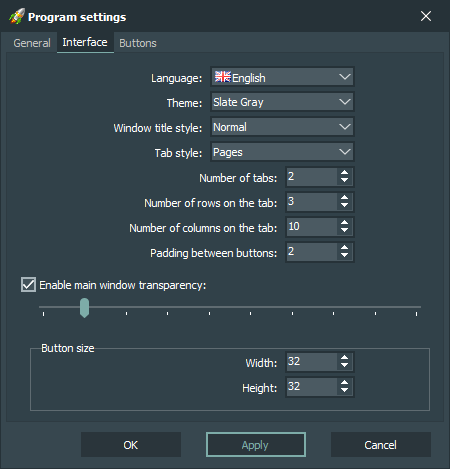
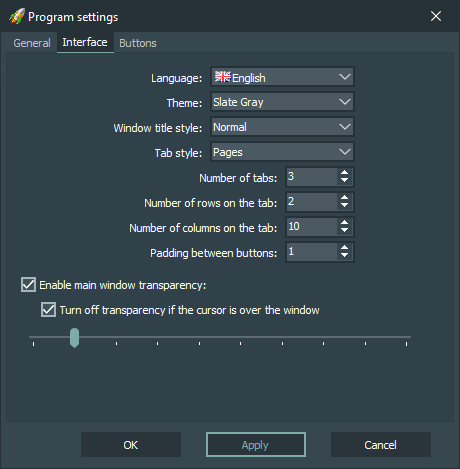
docs updated for v2.8 release

diff --git a/docs/ru/changelog.html b/docs/ru/changelog.html
@@ -23,6 +23,18 @@
     <h1>Список изменений</h1>
     <table>
       <tr><td colspan="4"><hr /></td></tr>
+      <tr><th align="left">Версия</th><th align="left">2.8</th><th align="left">Релиз</th></th><th align="right">16.07.2023</th></tr>
+      <tr><td colspan="4">&nbsp;</td></tr>
+      <tr><td align="right" valign="top"><img src="../data/image/added.png" width="16" height="16" alt="Добавлено" /></td><td colspan="3" align="left">Новый пункт меню вкладки "Добавить (новую вкладку)" (Ctrl + N).</td></tr>
+      <tr><td align="right" valign="top"><img src="../data/image/added.png" width="16" height="16" alt="Добавлено" /></td><td colspan="3" align="left">Новая опция "Отключать прозрачность, если курсор над окном".</td></tr>
+      <tr><td align="right" valign="top"><img src="../data/image/added.png" width="16" height="16" alt="Добавлено" /></td><td colspan="3" align="left">Добавлена горячая клавиша Ctrl + F1 для открытия окна "О программе".</td></tr>
+      <tr><td align="right" valign="top"><img src="../data/image/updated.png" width="16" height="16" alt="Обновлено" /></td><td colspan="3" align="left">Собрано в Embarcadero Delphi 11.3 Community Edition.</td></tr>
+      <tr><td align="right" valign="top"><img src="../data/image/fixed.png" width="16" height="16" alt="Исправлено" /></td><td colspan="3" align="left">Исправлена ошибка, при которой всплывающие подсказки над кнопками не показывались, если окно не было в фокусе.</td></tr>
+      <tr><td align="right" valign="top"><img src="../data/image/fixed.png" width="16" height="16" alt="Исправлено" /></td><td colspan="3" align="left">Исправлена ошибка, при которой вспомогательные окна приложения отображались под главным окном при включенной опции "Поверх всех окон".</td></tr>
+      <tr><td align="right" valign="top"><img src="../data/image/fixed.png" width="16" height="16" alt="Исправлено" /></td><td colspan="3" align="left">Различные незначительные исправления.</td></tr>
+      <tr><td align="right" valign="top"><img src="../data/image/removed.png" width="16" height="16" alt="Удалено" /></td><td colspan="3" align="left">Теперь поддерживаются только Windows 7 (SP1), Windows 10 и Windows 11.</td></tr>
+      <tr><td colspan="4">&nbsp;</td></tr>
+      <tr><td colspan="4"><hr /></td></tr>
       <tr><th align="left">Версия</th><th align="left">2.7</th><th align="left">Релиз</th></th><th align="right">20.11.2022</th></tr>
       <tr><td colspan="4">&nbsp;</td></tr>
       <tr><td align="right" valign="top"><img src="../data/image/added.png" width="16" height="16" alt="Добавлено" /></td><td colspan="3" align="left">При первом запуске FreeLaunch автоматически устанавливается язык, соответствующий установленному языку пользовательского интерфейса операционной системы.</td></tr>
@@ -48,7 +60,7 @@
       <tr><td align="right" valign="top"><img src="../data/image/updated.png" width="16" height="16" alt="Обновлено" /></td><td colspan="3" align="left">Обновлен русский файл справки.</td></tr>
       <tr><td align="right" valign="top"><img src="../data/image/updated.png" width="16" height="16" alt="Обновлено" /></td><td colspan="3" align="left">Переработан внешний вид окон "Настройки" и "О программе".</td></tr>
       <tr><td align="right" valign="top"><img src="../data/image/updated.png" width="16" height="16" alt="Обновлено" /></td><td colspan="3" align="left">Информация версии в окне "О программе" теперь всегда актуальна.</td></tr>
-      <tr><td align="right" valign="top"><img src="../data/image/updated.png" width="16" height="16" alt="Обновлено" /></td><td colspan="3" align="left">Скомпилировано в Embarcadero Delphi 10.4.2 Community Edition.</td></tr>
+      <tr><td align="right" valign="top"><img src="../data/image/updated.png" width="16" height="16" alt="Обновлено" /></td><td colspan="3" align="left">Собрано в Embarcadero Delphi 10.4.2 Community Edition.</td></tr>
       <tr><td align="right" valign="top"><img src="../data/image/fixed.png" width="16" height="16" alt="Исправлено" /></td><td colspan="3" align="left">Исправлена ошибка в работе приложения, если файл настроек был поврежден или к нему отсутствовал доступ.</td></tr>
       <tr><td align="right" valign="top"><img src="../data/image/fixed.png" width="16" height="16" alt="Исправлено" /></td><td colspan="3" align="left">Исправлена ошибка, при которой неправильно определялся путь к объекту на 64-битных ОС.</td></tr>
       <tr><td align="right" valign="top"><img src="../data/image/fixed.png" width="16" height="16" alt="Исправлено" /></td><td colspan="3" align="left">Исправлена ошибка, при которой окно не перерисовывалось после удаления вкладки.</td></tr>

diff --git a/docs/en/changelog.html b/docs/en/changelog.html
@@ -23,6 +23,18 @@
     <h1>Changelog</h1>
     <table>
       <tr><td colspan="4"><hr /></td></tr>
+      <tr><th align="left">Version</th><th align="left">2.8</th><th align="left">Release</th></th><th align="right">2023-07-16</th></tr>
+      <tr><td colspan="4">&nbsp;</td></tr>
+      <tr><td align="right" valign="top"><img src="../data/image/added.png" width="16" height="16" alt="Added" /></td><td colspan="3" align="left">New tab menu item "Add (new tab)" (Ctrl + N).</td></tr>
+      <tr><td align="right" valign="top"><img src="../data/image/added.png" width="16" height="16" alt="Added" /></td><td colspan="3" align="left">New option "Turn off transparency when cursor is over window".</td></tr>
+      <tr><td align="right" valign="top"><img src="../data/image/added.png" width="16" height="16" alt="Added" /></td><td colspan="3" align="left">Added hotkey Ctrl + F1 to open "About" window.</td></tr>
+      <tr><td align="right" valign="top"><img src="../data/image/updated.png" width="16" height="16" alt="Updated" /></td><td colspan="3" align="left">Built in Embarcadero Delphi 11.3 Community Edition.</td></tr>
+      <tr><td align="right" valign="top"><img src="../data/image/fixed.png" width="16" height="16" alt="Fixed" /></td><td colspan="3" align="left">Fixed a bug where button tooltips were not shown if the window was not in focus.</td></tr>
+      <tr><td align="right" valign="top"><img src="../data/image/fixed.png" width="16" height="16" alt="Fixed" /></td><td colspan="3" align="left">Fixed a bug where application modals were displayed below the main window when the "Stay on top" option was enabled.</td></tr>
+      <tr><td align="right" valign="top"><img src="../data/image/fixed.png" width="16" height="16" alt="Fixed" /></td><td colspan="3" align="left">Various minor fixes.</td></tr>
+      <tr><td align="right" valign="top"><img src="../data/image/removed.png" width="16" height="16" alt="Removed" /></td><td colspan="3" align="left">Now only Windows 7 (SP1), Windows 10 and Windows 11 are supported.</td></tr>
+      <tr><td colspan="4">&nbsp;</td></tr>
+      <tr><td colspan="4"><hr /></td></tr>
       <tr><th align="left">Version</th><th align="left">2.7</th><th align="left">Release</th></th><th align="right">2022-11-20</th></tr>
       <tr><td colspan="4">&nbsp;</td></tr>
       <tr><td align="right" valign="top"><img src="../data/image/added.png" width="16" height="16" alt="Added" /></td><td colspan="3" align="left">When you first start FreeLaunch, the system language of the program interface is set by default.</td></tr>
@@ -48,7 +60,7 @@
       <tr><td align="right" valign="top"><img src="../data/image/updated.png" width="16" height="16" alt="Updated" /></td><td colspan="3" align="left">Updated Russian help file.</td></tr>
       <tr><td align="right" valign="top"><img src="../data/image/updated.png" width="16" height="16" alt="Updated" /></td><td colspan="3" align="left">About and settings windows redesigned.</td></tr>
       <tr><td align="right" valign="top"><img src="../data/image/updated.png" width="16" height="16" alt="Updated" /></td><td colspan="3" align="left">Version information is always up-to-date in the About window.</td></tr>
-      <tr><td align="right" valign="top"><img src="../data/image/updated.png" width="16" height="16" alt="Updated" /></td><td colspan="3" align="left">Compiled on Embarcadero Delphi 10.4.2 Community Edition.</td></tr>
+      <tr><td align="right" valign="top"><img src="../data/image/updated.png" width="16" height="16" alt="Updated" /></td><td colspan="3" align="left">Build in Embarcadero Delphi 10.4.2 Community Edition.</td></tr>
       <tr><td align="right" valign="top"><img src="../data/image/fixed.png" width="16" height="16" alt="Fixed" /></td><td colspan="3" align="left">The application no longer crashes if the settings file is corrupted or cannot be accessed.</td></tr>
       <tr><td align="right" valign="top"><img src="../data/image/fixed.png" width="16" height="16" alt="Fixed" /></td><td colspan="3" align="left">Fixed a bug where path to the file was incorrectly determined on 64-bit OS.</td></tr>
       <tr><td align="right" valign="top"><img src="../data/image/fixed.png" width="16" height="16" alt="Fixed" /></td><td colspan="3" align="left">Fixed a bug where the window was not redrawn after deleting a tab.</td></tr>

diff --git a/docs/ru/doc_settingstab_interface.html b/docs/ru/doc_settingstab_interface.html
@@ -8,7 +8,7 @@
   </head>
   <body class="page">
     <p>
-      <img src="../data/image/ru/settings2.png" width="450" height="469" alt="Окно настроек - Вкладка &laquo;Интерфейс&raquo;" />
+      <img src="../data/image/ru/settings2.png" width="460" height="469" alt="Окно настроек - Вкладка &laquo;Интерфейс&raquo;" />
     </p>
     <p>
         <strong>Настройки интерфейса:</strong>
@@ -49,6 +49,10 @@
       <li>
         <strong>Включить прозрачность главного окна</strong><br />
         Включает и устанавливает коэффициент прозрачности главного окна.<br /><br />
+      </li>
+      <li>
+        <strong>Отключить прозрачность, если курсор находится над окном</strong><br />
+        Включает и отключает прозрачность главного окна, в зависимости от того, находится курсор мыши над главным окном или нет.<br /><br />
       </li>
       <li>
         <strong>Размер кнопок</strong><br />

diff --git a/docs/ru/doc_mainwnd.html b/docs/ru/doc_mainwnd.html
@@ -56,12 +56,20 @@
         При нажатии этой клавиши открывается окно для изменения имени вкладки.<br /><br />
       </li>
       <li>
+        <strong>Ctrl + N</strong><br />
+        При нажатии этой комбинации клавиш добавляется новая вкладка.<br /><br />
+      </li>
+      <li>
         <strong>Ctrl + Q</strong><br />
         При нажатии этой комбинации клавиш производится завершение работы приложения.<br /><br />
       </li>
       <li>
         <strong>Ctrl + S</strong><br />
         При нажатии этой комбинации клавиш открывается окно настроек приложения.<br /><br />
+      </li>
+      <li>
+        <strong>Ctrl + W</strong><br />
+        При нажатии этой комбинации клавиш удаляется выбранная вкладка.<br /><br />
       </li>
       <li>
         <strong>Alt + F4</strong><br />

diff --git a/docs/en/doc_settingstab_interface.html b/docs/en/doc_settingstab_interface.html
@@ -8,7 +8,7 @@
   </head>
   <body class="page">
     <p>
-      <img src="../data/image/en/settings2.png" width="450" height="469" alt="Settings window - Tab Interface" />
+      <img src="../data/image/en/settings2.png" width="460" height="469" alt="Settings window - Tab Interface" />
     </p>
     <p>
         <strong>Interface options:</strong>
@@ -51,6 +51,10 @@
         Enables and sets the transparency level of the main window.<br /><br />
       </li>
       <li>
+        <strong>Turn off transparency if the cursor is over the window</strong><br />
+        Turns the transparency of the main window on and off, depending on whether the mouse cursor is over the main window or not.<br /><br />
+      </li>
+       <li>
         <strong>Button size</strong><br />
         Button sizes on a tab.<br /><br />
         <ul>

diff --git a/docs/en/doc_mainwnd.html b/docs/en/doc_mainwnd.html
@@ -55,13 +55,21 @@
         <strong>F2</strong><br />
         Pressing this hotkey renames the currently open tab.<br /><br />
       </li>
-      <li>
+       <li>
+        <strong>Ctrl + N</strong><br />
+        Pressing this hotkey adds the new tab.<br /><br />
+      </li>
+     <li>
         <strong>Ctrl + Q</strong><br />
         Pressing this hotkey terminates the application.<br /><br />
       </li>
       <li>
         <strong>Ctrl + S</strong><br />
         Pressing this hotkey opens the settings window.<br /><br />
+      </li>
+       <li>
+        <strong>Ctrl + W</strong><br />
+        Pressing this hotkey deletes the current tab.<br /><br />
       </li>
       <li>
         <strong>Alt + F4</strong><br />

diff --git a/docs/ru/contributors.html b/docs/ru/contributors.html
@@ -21,7 +21,7 @@
 				<td class="transparent">
 					Евгений Корейба (2008-2010)<br />
 					Mykola Petrivskiy (2016-2021)<br />
-					Алексей Татуйко (2022)
+					Алексей Татуйко (2022-2023)
 				</td>
 			</tr>
 			<tr>
@@ -29,7 +29,7 @@
 					<strong>Документация</strong>
 				</td>
 				<td class="transparent">
-					Алексей Татуйко (2008, 2022)<br />
+					Алексей Татуйко (2008-2023)<br />
 					Mykola Petrivskiy (2017)
 				</td>
 			</tr>

diff --git a/docs/en/contributors.html b/docs/en/contributors.html
@@ -21,7 +21,7 @@
 				<td class="transparent">
 					Evgeny Koreyba (2008-2010)<br />
 					Mykola Petrivskiy (2016-2021)<br />
-					Alexey Tatuyko (2022)
+					Alexey Tatuyko (2022-2023)
 				</td>
 			</tr>
 			<tr>
@@ -29,7 +29,7 @@
 					<strong>Documentation</strong>
 				</td>
 				<td class="transparent">
-					Alexey Tatuyko (2008, 2022)<br />
+					Alexey Tatuyko (2008-2023)<br />
 					Mykola Petrivskiy (2017)
 				</td>
 			</tr>

diff --git a/docs/ru/hotkeys.html b/docs/ru/hotkeys.html
@@ -16,7 +16,7 @@
           			<strong>Ctrl + Win</strong>
         		</td>			
 					<td class="transparent">
-					Показать главно окно FreeLaunch.
+					Показать главное окно FreeLaunch.
 				</td>			
 			</tr>
 			<tr>
